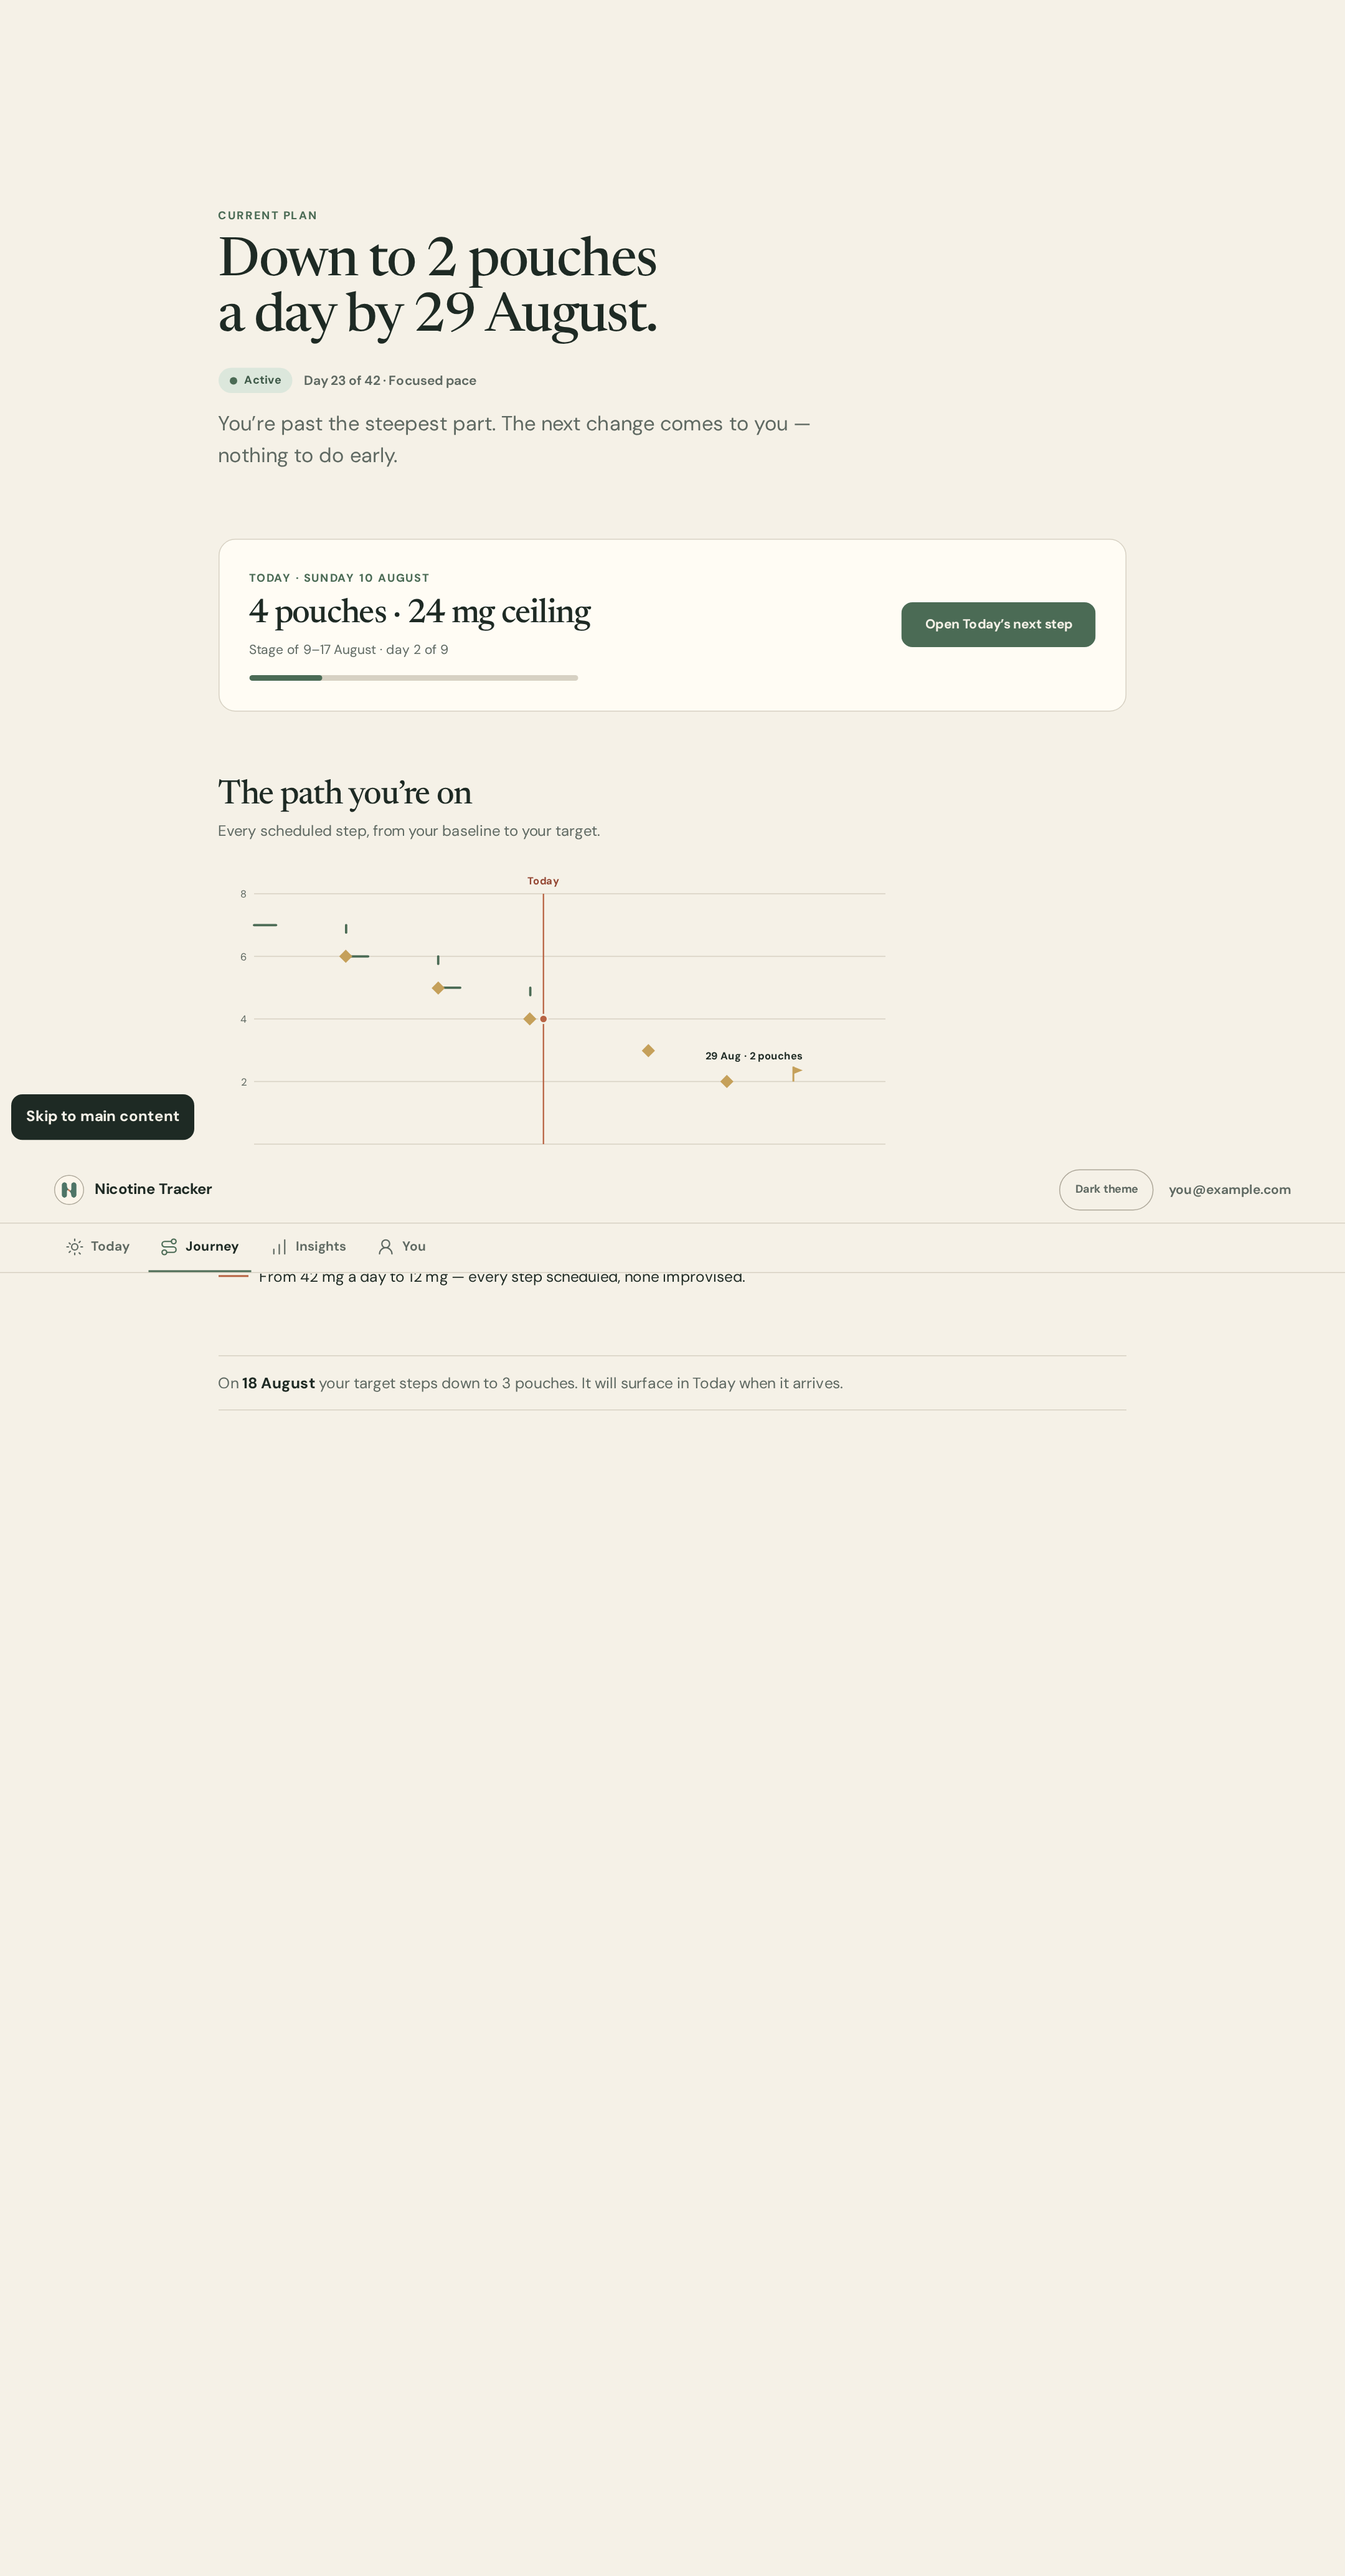
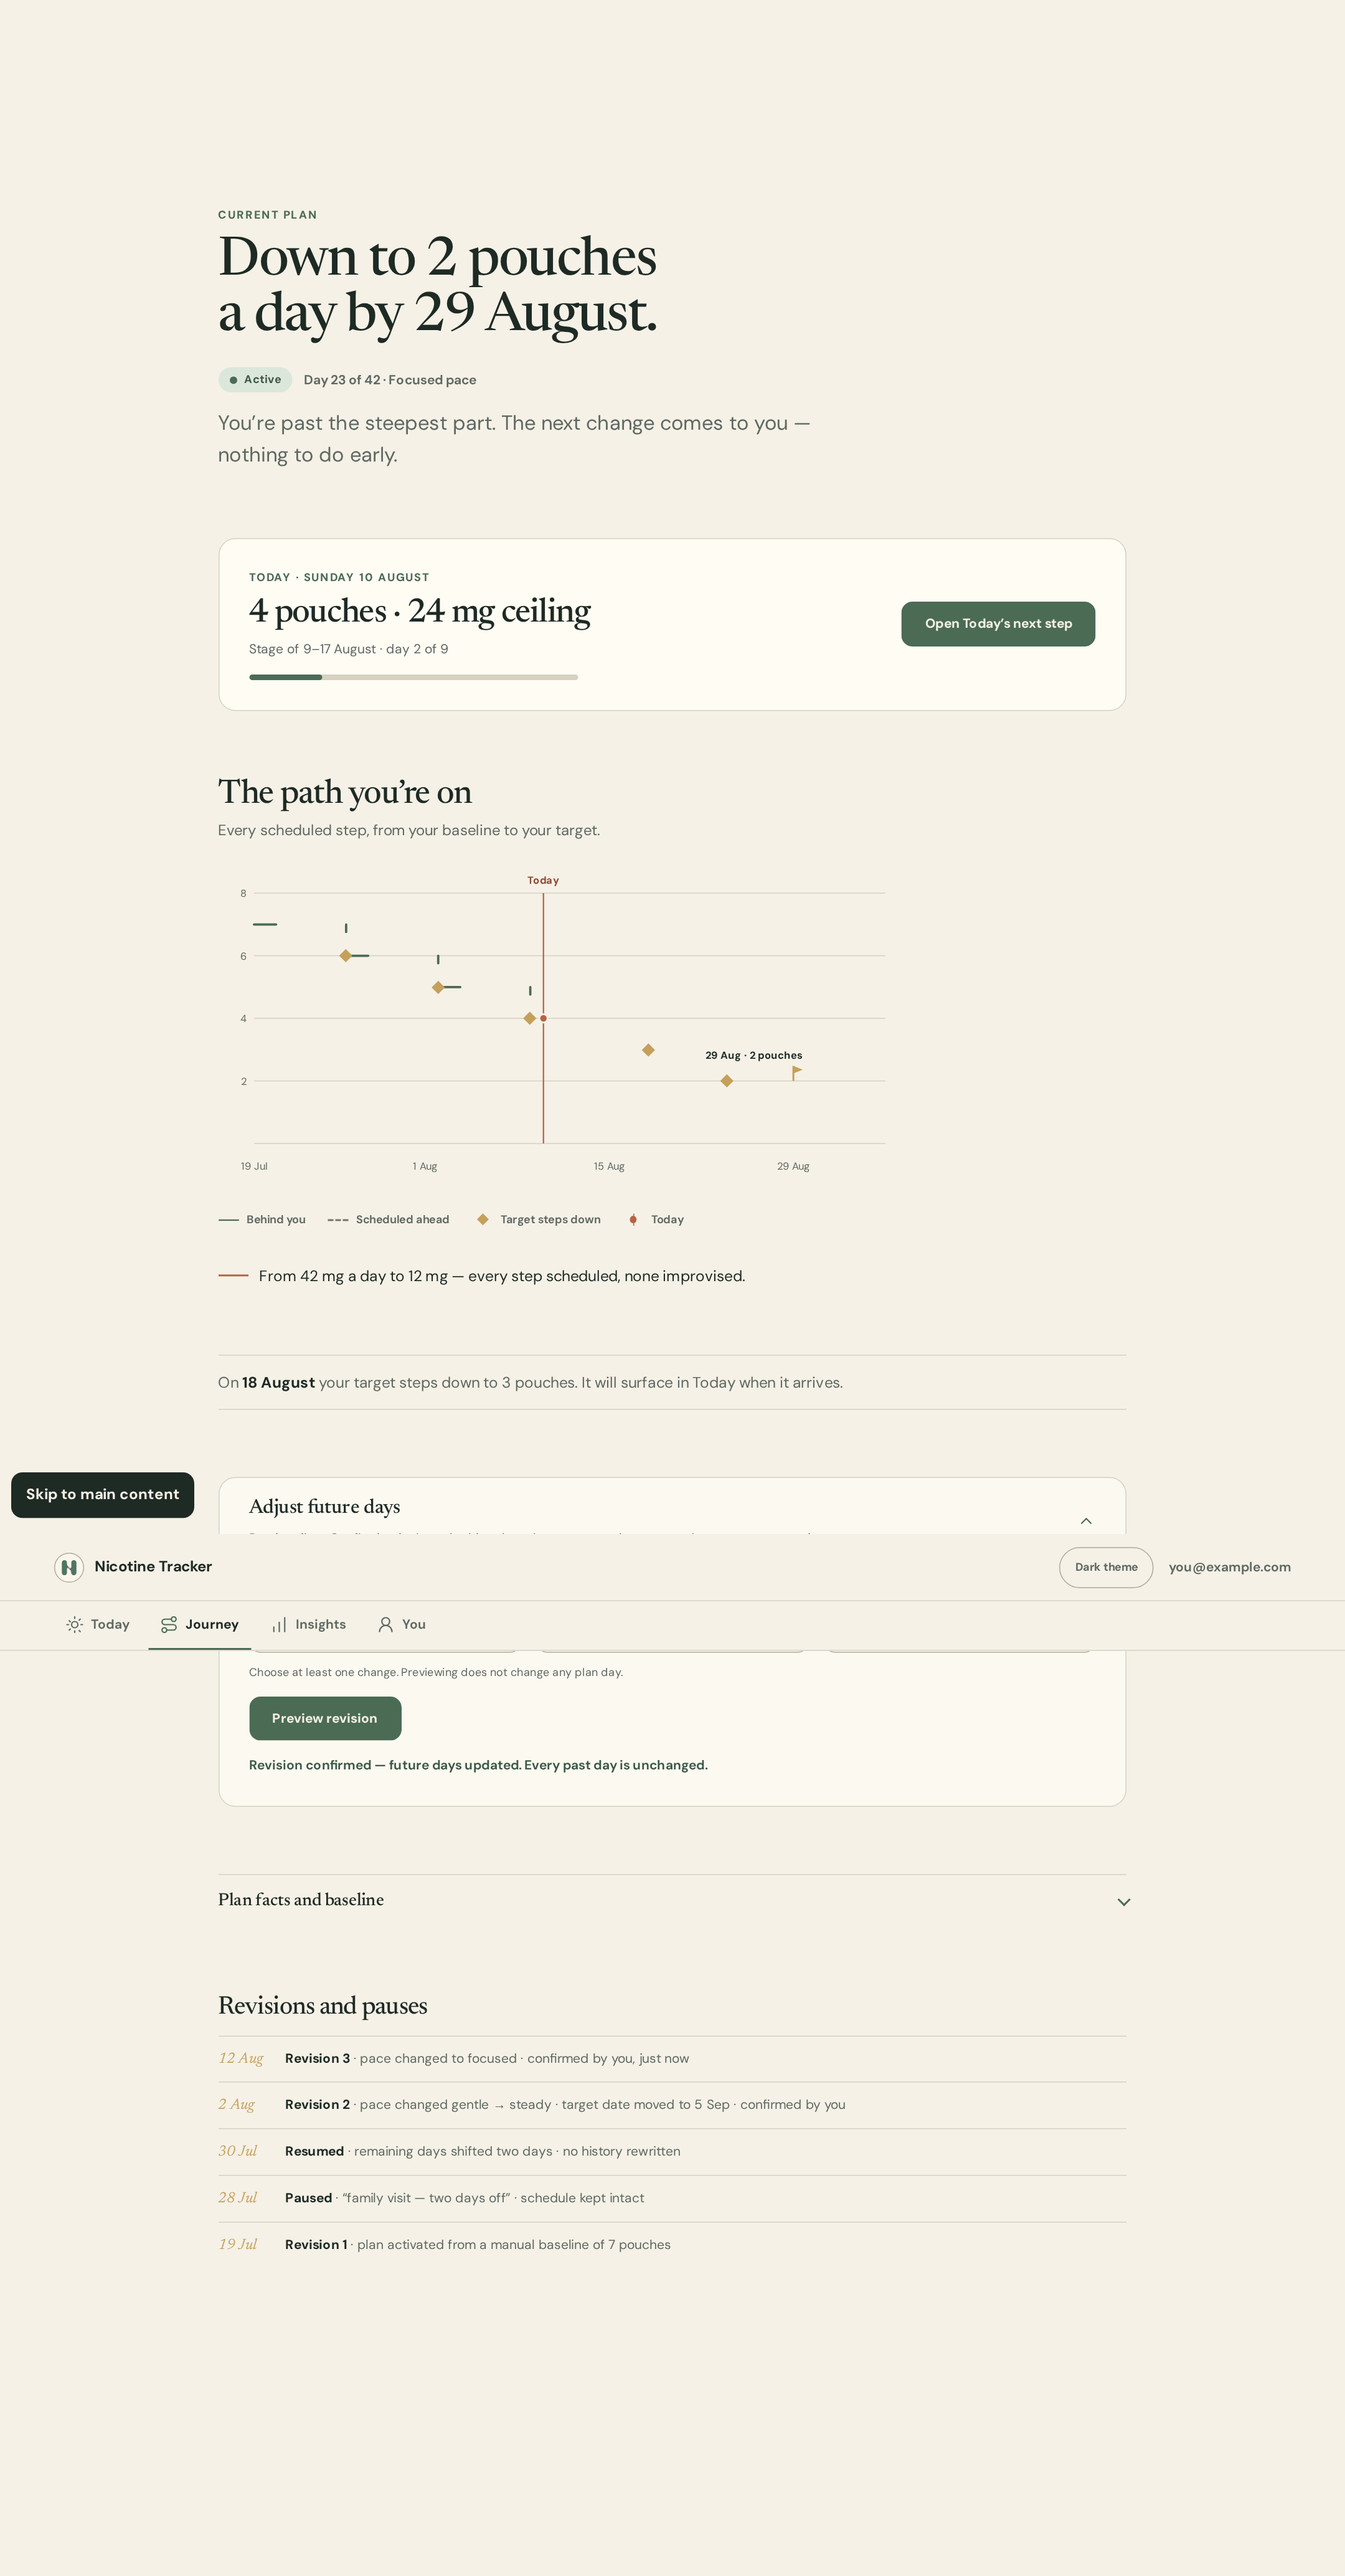
prototype: animate adjust section open/close (grid-rows collapse)

diff --git a/prototypes/journey/index.html b/prototypes/journey/index.html
@@ -534,6 +534,22 @@ button { font: inherit; }
 .adjust__promise { color: var(--color-text-muted); font-size: var(--text-small); }
 .adjust__chev { color: var(--color-constructive); transition: transform var(--duration-panel) var(--ease-out-expo); }
 .adjust__toggle[aria-expanded="true"] .adjust__chev { transform: rotate(180deg); }
+.adjust__collapse {
+  display: grid;
+  grid-template-rows: 0fr;
+  transition: grid-template-rows var(--duration-panel) var(--ease-out-expo);
+}
+.adjust__collapse.is-open { grid-template-rows: 1fr; }
+.adjust__collapse-inner {
+  min-height: 0;
+  overflow: hidden;
+  visibility: hidden;
+  transition: visibility 0s var(--duration-panel);
+}
+.adjust__collapse.is-open .adjust__collapse-inner {
+  visibility: visible;
+  transition-delay: 0s;
+}
 .adjust__body {
   padding: 0 clamp(1.25rem, 3vw, 2rem) clamp(1.25rem, 3vw, 2rem);
   border-block-start: 1px solid var(--color-border);
@@ -707,6 +723,7 @@ html.js .rise.is-in {
   html.js .rise, html.js .rise.is-in { opacity: 1; transition: none; transform: none; }
   .chart-step--past.draw-in { animation: none; stroke-dasharray: none; stroke-dashoffset: 0; }
   .chart-step--future.fade-in, .chart-preview-step.fade-in { animation: none; opacity: 1; }
+  .adjust__collapse, .adjust__collapse-inner { transition: none; }
 }
 
 @media (max-width: 48rem) {
@@ -842,40 +859,44 @@ html.js .rise.is-in {
       </span>
       <svg class="c-icon adjust__chev" viewBox="0 0 24 24" fill="none" stroke="currentColor" stroke-width="1.75" stroke-linecap="round" stroke-linejoin="round" aria-hidden="true"><path d="m6 9 6 6 6-6"/></svg>
     </button>
-    <div class="adjust__body" id="adjust-body" hidden>
-      <form data-adjust-form novalidate>
-        <div class="adjust__fields">
-          <div class="field">
-            <label for="adjust-date">Effective date</label>
-            <input id="adjust-date" data-adjust-date type="date" min="2026-08-11" max="2026-09-05" value="2026-08-12" required>
+    <div class="adjust__collapse" id="adjust-body">
+      <div class="adjust__collapse-inner">
+        <div class="adjust__body">
+          <form data-adjust-form novalidate>
+          <div class="adjust__fields">
+            <div class="field">
+              <label for="adjust-date">Effective date</label>
+              <input id="adjust-date" data-adjust-date type="date" min="2026-08-11" max="2026-09-05" value="2026-08-12" required>
+            </div>
+            <div class="field">
+              <label for="adjust-pace">Pace</label>
+              <select id="adjust-pace" data-adjust-pace>
+                <option value="" selected>Keep steady pace</option>
+                <option value="gentle">Gentle — more time</option>
+                <option value="focused">Focused — sooner</option>
+              </select>
+            </div>
+            <div class="field">
+              <label for="adjust-target">End target, pouches a day</label>
+              <input id="adjust-target" data-adjust-target type="number" min="0" max="3" placeholder="Keep 2">
+            </div>
           </div>
-          <div class="field">
-            <label for="adjust-pace">Pace</label>
-            <select id="adjust-pace" data-adjust-pace>
-              <option value="" selected>Keep steady pace</option>
-              <option value="gentle">Gentle — more time</option>
-              <option value="focused">Focused — sooner</option>
-            </select>
+          <p class="adjust__hint" data-adjust-hint>Choose at least one change. Previewing does not change any plan day.</p>
+          <div class="adjust__buttons">
+            <button class="c-button c-button--primary" type="submit" data-adjust-preview>Preview revision</button>
           </div>
-          <div class="field">
-            <label for="adjust-target">End target, pouches a day</label>
-            <input id="adjust-target" data-adjust-target type="number" min="0" max="3" placeholder="Keep 2">
+        </form>
+        <div class="adjust__preview" data-preview-region hidden>
+          <p class="adjust__summary" data-preview-summary></p>
+          <ul class="adjust__diff" data-preview-diff></ul>
+          <div class="adjust__buttons">
+            <button class="c-button c-button--primary" type="button" data-adjust-confirm>Confirm revision</button>
+            <button class="c-button c-button--ghost" type="button" data-adjust-discard>Discard preview</button>
           </div>
         </div>
-        <p class="adjust__hint" data-adjust-hint>Choose at least one change. Previewing does not change any plan day.</p>
-        <div class="adjust__buttons">
-          <button class="c-button c-button--primary" type="submit" data-adjust-preview>Preview revision</button>
-        </div>
-      </form>
-      <div class="adjust__preview" data-preview-region hidden>
-        <p class="adjust__summary" data-preview-summary></p>
-        <ul class="adjust__diff" data-preview-diff></ul>
-        <div class="adjust__buttons">
-          <button class="c-button c-button--primary" type="button" data-adjust-confirm>Confirm revision</button>
-          <button class="c-button c-button--ghost" type="button" data-adjust-discard>Discard preview</button>
+          <p class="adjust__status" role="status" data-adjust-status hidden></p>
         </div>
       </div>
-      <p class="adjust__status" role="status" data-adjust-status hidden></p>
     </div>
   </section>
 
@@ -1274,7 +1295,7 @@ html.js .rise.is-in {
   adjustToggle.addEventListener("click", () => {
     const open = adjustToggle.getAttribute("aria-expanded") === "true";
     adjustToggle.setAttribute("aria-expanded", String(!open));
-    adjustBody.hidden = open;
+    adjustBody.classList.toggle("is-open", !open);
   });
 
   const hintAlert = (msg) => {

diff --git a/prototypes/journey/shot.js b/prototypes/journey/shot.js
@@ -39,6 +39,14 @@ const { chromium } = require("playwright");
   const lastStep = () => desktop.locator("[data-chart-step]").last().getAttribute("d");
   const pathBefore = await lastStep();
   await desktop.click("[data-adjust-toggle]");
+  await desktop.waitForTimeout(60);
+  const hEarly = await desktop.evaluate(() => document.getElementById("adjust-body").offsetHeight);
+  await desktop.waitForTimeout(500);
+  const hOpen = await desktop.evaluate(() => document.getElementById("adjust-body").offsetHeight);
+  if (!(hOpen > hEarly)) {
+    console.error("adjust section did not animate open:", hEarly, "->", hOpen);
+    process.exit(1);
+  }
   await desktop.fill("[data-adjust-date]", "2026-08-12");
   await desktop.selectOption("[data-adjust-pace]", "focused");
   await desktop.click("[data-adjust-preview]");
